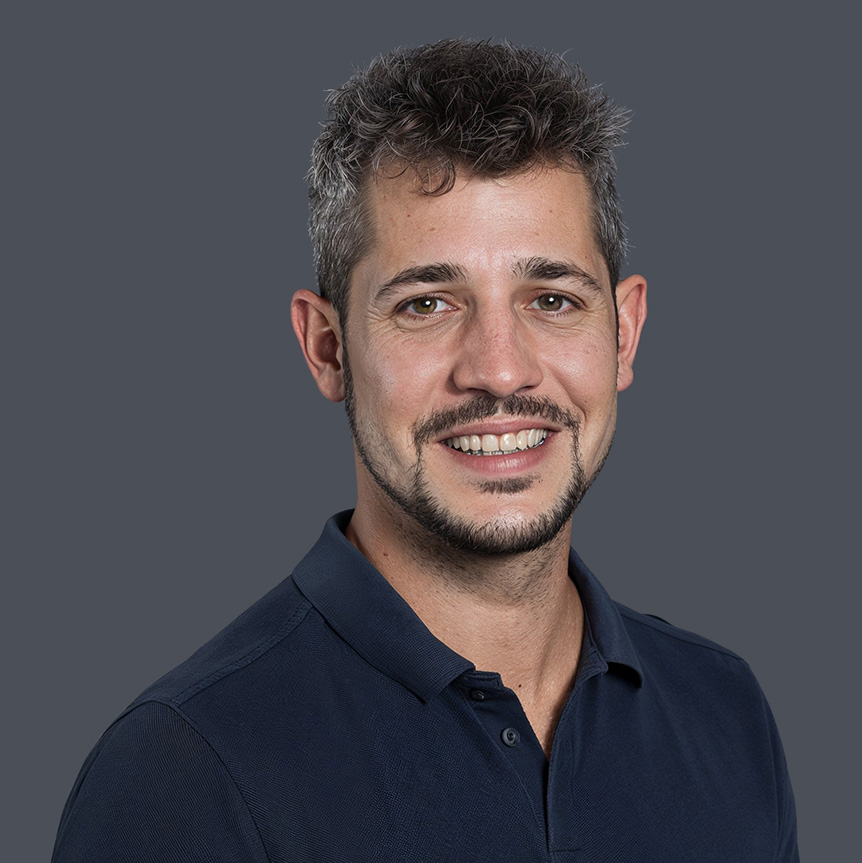
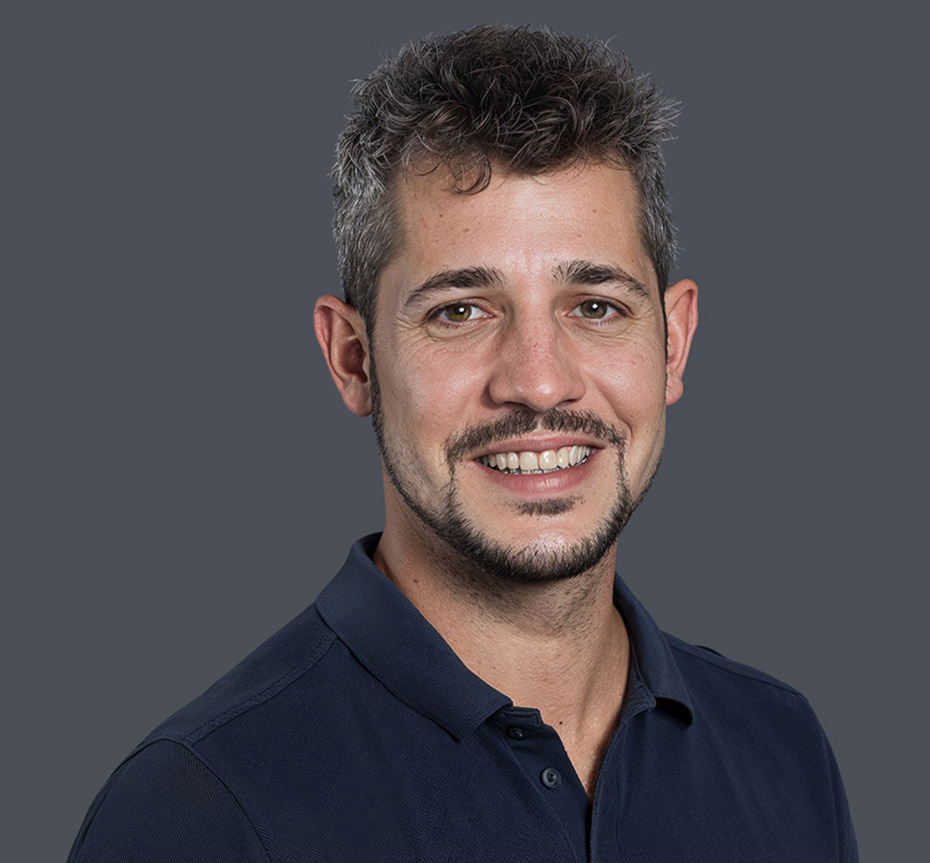
walter

Changed region(s): [[0.0603, 0.0301, 0.935, 1.0]]

diff --git a/main.js b/main.js
@@ -162,10 +162,9 @@ $(document).ready(function() {
         document.getElementById('luigi-tel-mobile').innerHTML = 'M: <a href="tel:+41798383137">' + obfuscatePhone('+41798383137') + '</a>';
         document.getElementById('luigi-email').innerHTML = '<a href="mailto:' + obfuscateEmail('luigi', 'senmarck.ch') + '">' + obfuscateEmail('luigi', 'senmarck.ch') + '</a>';
 
-        // Walter
-        document.getElementById('walter-tel-office').innerHTML = 'T: <a href="tel:+41717472052">' + obfuscatePhone('+41717472052') + '</a>';
-        document.getElementById('walter-tel-mobile').innerHTML = 'M: <a href="tel:+41797975085">' + obfuscatePhone('+41797975085') + '</a>';
-        document.getElementById('walter-email').innerHTML = '<a href="mailto:' + obfuscateEmail('walter', 'senmarck.ch') + '">' + obfuscateEmail('walter', 'senmarck.ch') + '</a>';
+        // Manuel
+        document.getElementById('manuel-tel-office').innerHTML = 'T: <a href="tel:+41717472052">' + obfuscatePhone('+41717472052') + '</a>';
+        document.getElementById('manuel-email').innerHTML = '<a href="mailto:' + obfuscateEmail('sales', 'senmarck.ch') + '">' + obfuscateEmail('sales', 'senmarck.ch') + '</a>';
 
         // Jeff
         document.getElementById('jeff-tel-office').innerHTML = 'T: <a href="tel:+41717472052">' + obfuscatePhone('+41717472052') + '</a>';

diff --git a/index.php b/index.php
@@ -72,8 +72,7 @@ Version 2.0
                 "addressCountry": "CH"
             },
             "sameAs": [
-                "https://www.linkedin.com/in/luigi-cuomo-a0241a128/",
-                "https://www.linkedin.com/in/walter-neff-21a5a6b0/"
+                "https://www.linkedin.com/in/luigi-cuomo-a0241a128/"
             ]
         }
     </script>
@@ -507,9 +506,9 @@ Version 2.0
                 </div>
                 <div class="support-team ">
                     <picture class="box-image-container">
-                        <source srcset="img/senmarck-energiespeichersystem-team-walter-neff.webp" type="image/webp">
-                        <source srcset="img/senmarck-energiespeichersystem-team-walter-neff.jpg" type="image/jpeg">
-                        <img class="box-image" src="img/senmarck-energiespeichersystem-team-walter-neff.jpg" loading="lazy" alt="Senmarck Energiespeichersystem Team Walter Neff" width="auto" height="auto">
+                        <source srcset="img/senmarck-energiespeichersystem-team-manuel-benitez.webp" type="image/webp">
+                        <source srcset="img/senmarck-energiespeichersystem-team-manuel-benitez.jpg" type="image/jpeg">
+                        <img class="box-image" src="img/senmarck-energiespeichersystem-team-manuel-benitez.jpg" loading="lazy" alt="Senmarck Energiespeichersystem Team Manuel Benitez" width="auto" height="auto">
                     </picture>
                 </div>
             </div>
@@ -607,18 +606,16 @@ Version 2.0
             <div class="boxes-container">
                 <div class="box-container-team">
                     <picture class="box-image-container-team">
-                        <source srcset="img/senmarck-energiespeichersystem-team-walter-neff.webp" type="image/webp">
-                        <source srcset="img/senmarck-energiespeichersystem-team-walter-neff.jpg" type="image/jpeg">
-                        <img class="box-team-image" src="img/senmarck-energiespeichersystem-team-walter-neff.jpg" loading="lazy" alt="Senmarck Energiespeichersystem Team Walter Neff" width="auto" height="auto">
+                        <source srcset="img/senmarck-energiespeichersystem-team-manuel-benitez.webp" type="image/webp">
+                        <source srcset="img/ssenmarck-energiespeichersystem-team-manuel-benitez.jpg" type="image/jpeg">
+                        <img class="box-team-image" src="img/senmarck-energiespeichersystem-team-manuel-benitez.jpg" loading="lazy" alt="Senmarck Energiespeichersystem Team Manuel Benitez" width="auto" height="auto">
                     </picture>
                     <div class="box-team">
-                        <h3>Walter Neff <br> CTO</h3>
+                        <h3>Manuel Benitez <br> CTO</h3>
                         <p>
-                            <span id="walter-tel-office"></span><br>
-                            <span id="walter-tel-mobile"></span><br>
-                            <span id="walter-email"></span>
-                        </p>   
-                        <a href="https://www.linkedin.com/in/walter-neff-21a5a6b0/" target="_blank" class="box-team-icon"><img src="img/linkedin.svg" alt="linkedin"></a>
+                            <span id="manuel-tel-office"></span><br>
+                            <span id="manuel-email"></span>
+                        </p>
                     </div> 
                 </div>
             </div>
@@ -636,8 +633,7 @@ Version 2.0
                             <span id="jeff-tel-office"></span><br>
                             <span id="jeff-tel-mobile"></span><br>
                             <span id="jeff-email"></span>
-                        </p>   
-                        <!-- <a href="https://www.linkedin.com/in/luigi-cuomo-a0241a128/" target="_blank" class="box-team-icon"><img src="img/linkedin.svg" alt="linkedin"></a> -->
+                        </p>
                     </div> 
                 </div>
             </div>
